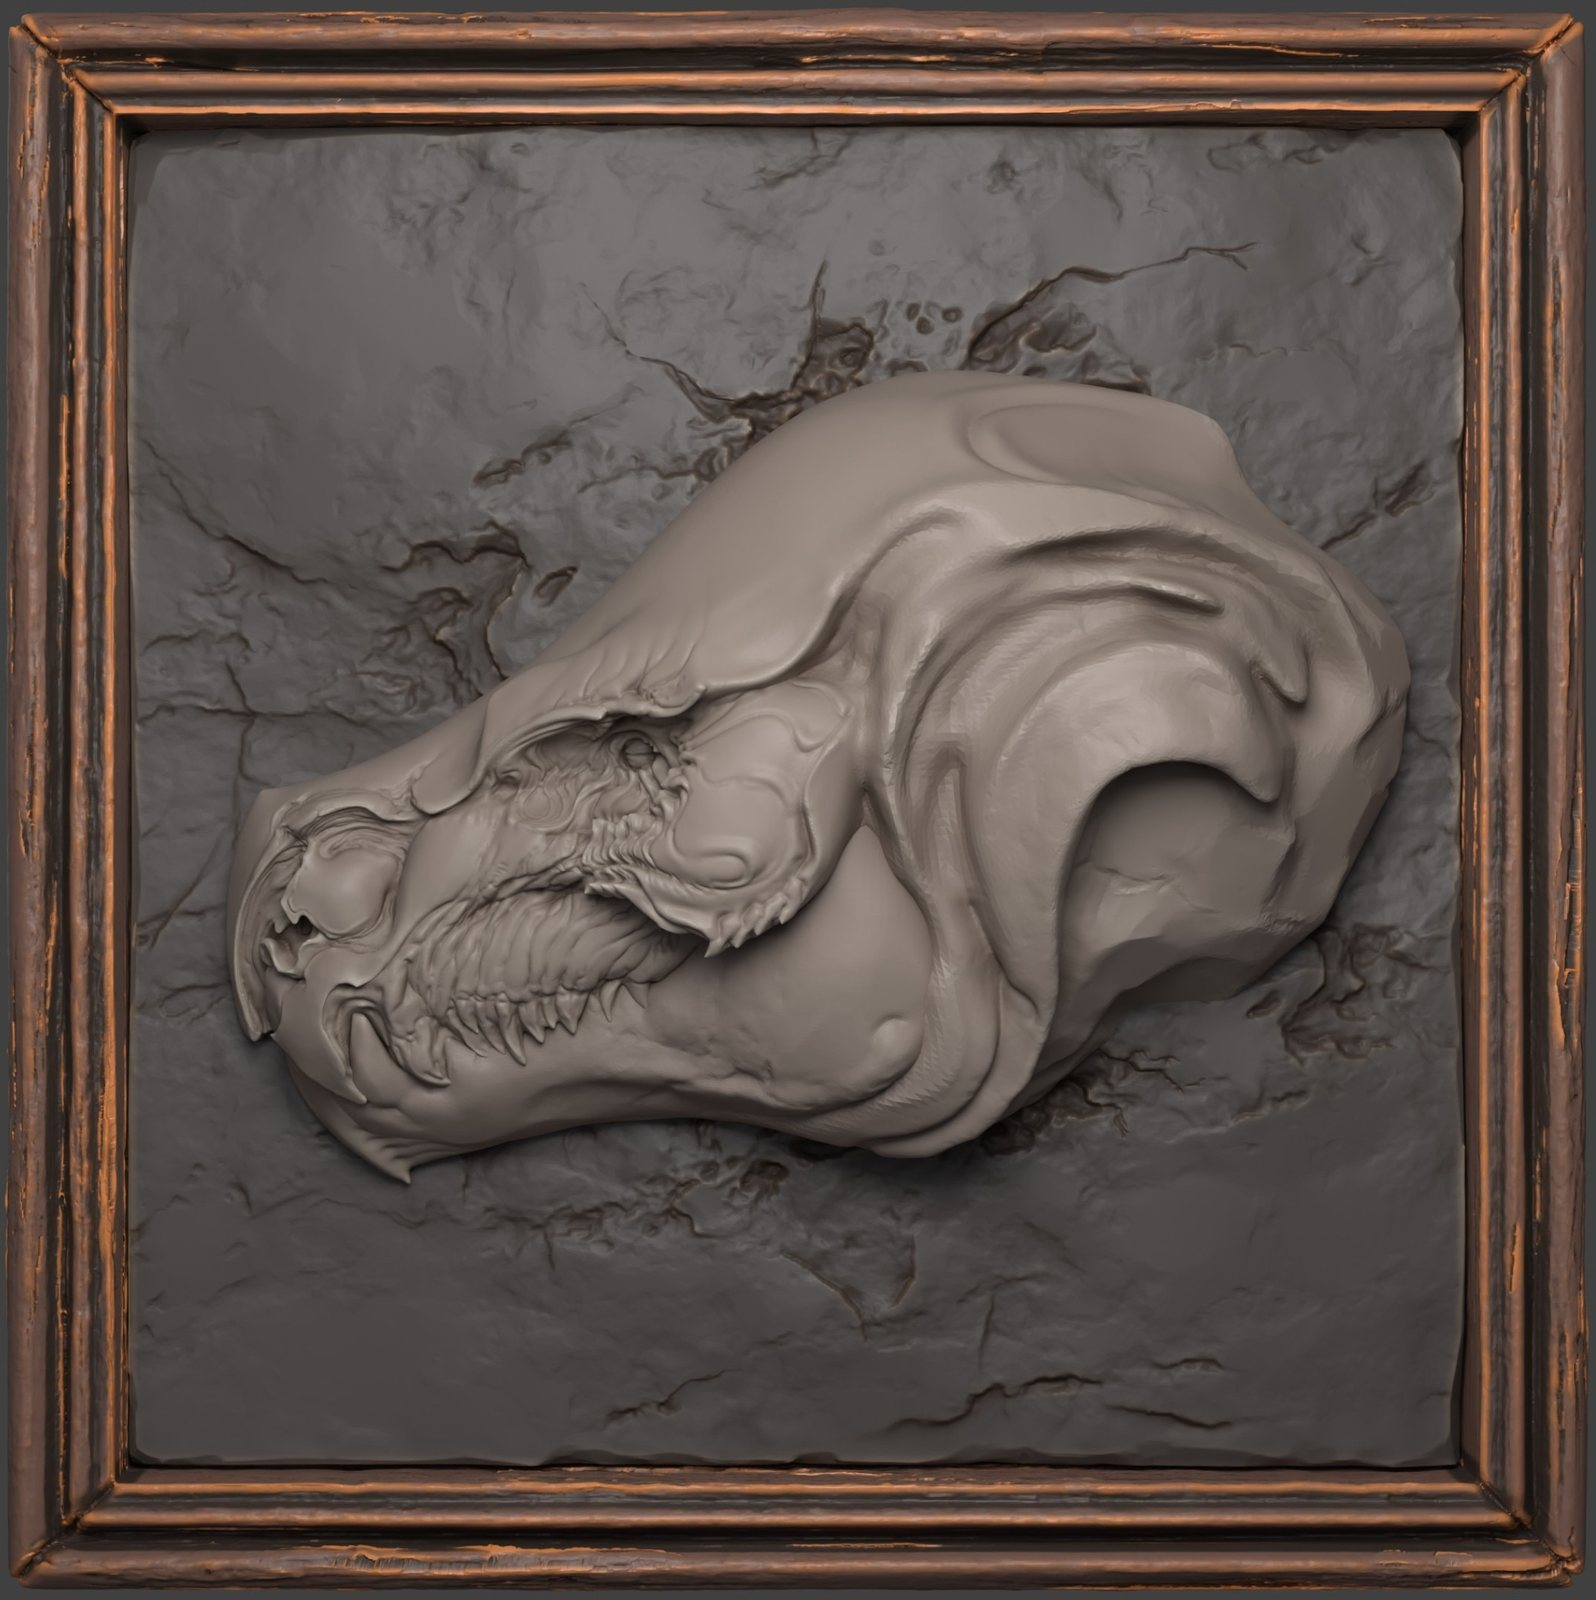
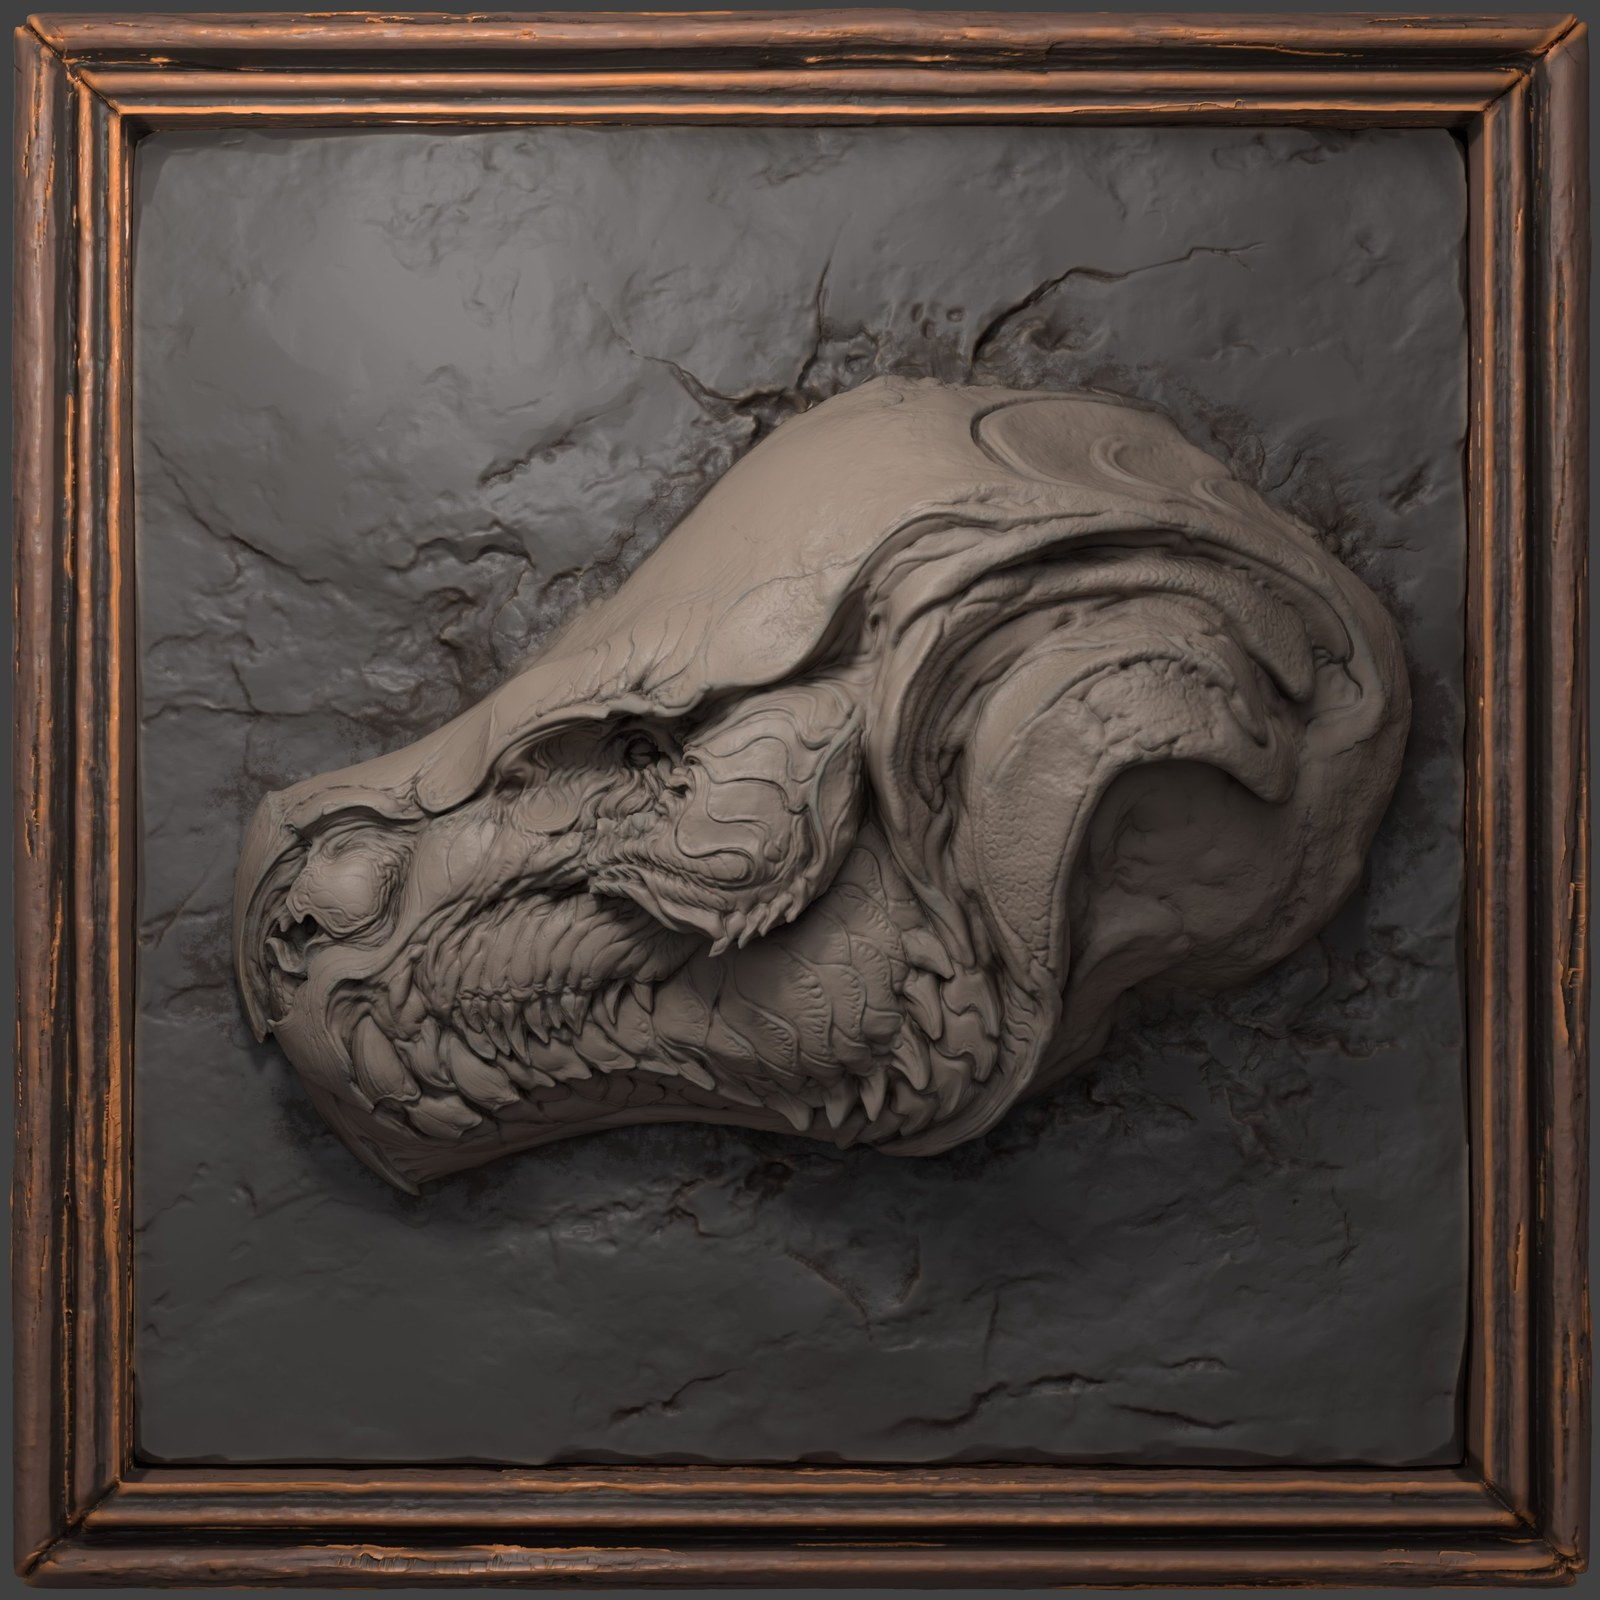
Fossil: replace with finished render
Claude-Session: https://claude.ai/code/session_01CzUCqqYbQuWhEYsk1x948K

diff --git a/index.html b/index.html
@@ -309,7 +309,7 @@ body{background:var(--bg);color:var(--ink);overflow:hidden;font-family:var(--mon
 <dl class="kv"><dt>担当</dt><dd>個人制作：デザイン・スカルプト（ZBrush）</dd></dl>
 <span class="lab" style="display:block;margin-top:22px">CONCEPT</span>
 <p class="concept" style="margin-top:6px">岩の中から見つかった、竜の頭の化石をイメージしました。骨だけでなく、皮や肉の名残も残っている標本です。</p></div>
-<figure class="fr"><img src="img/fossil.jpg" width="1596" height="1600" loading="lazy" alt="化石標本 ドラゴン頭部"></figure>
+<figure class="fr"><img src="img/fossil.jpg" width="1600" height="1600" loading="lazy" alt="化石標本 ドラゴン頭部"></figure>
 </div>
 
 <div class="work" id="w-sketch">
